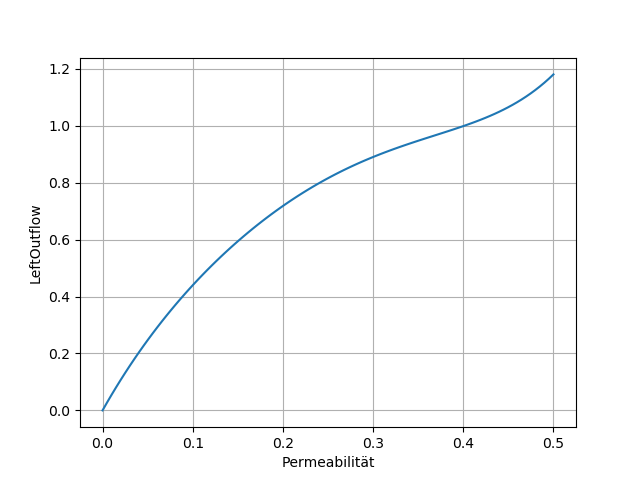
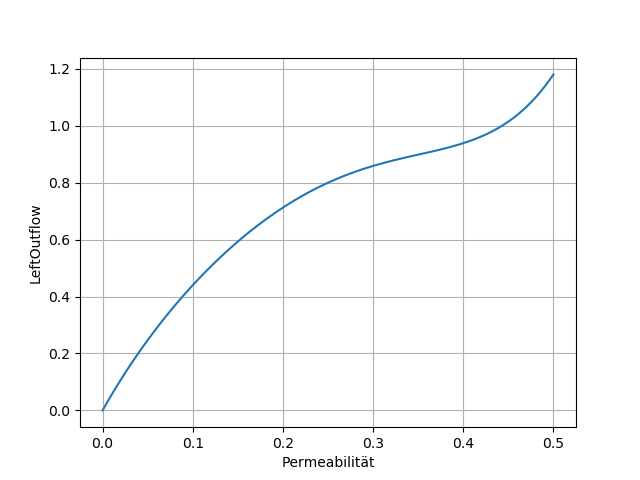
MMMM

diff --git a/aufgabe19.py b/aufgabe19.py
@@ -50,8 +50,8 @@ plt.ylabel("LeftOutflow")
 plt.grid(True)
 plt.savefig("19/linlinks.png")
 
-v1 = scipy.linalg.solve(A, lin_left_outflow)
-v2 = scipy.linalg.solve(A, lin_right_outflow)
+v1 = scipy.linalg.solve(A, left_outflow)
+v2 = scipy.linalg.solve(A, right_outflow)
 
 xarray = np.linspace(0,0.5,100)
 yarray = [f(xarray[i],v2) for i in range(len(xarray))]
